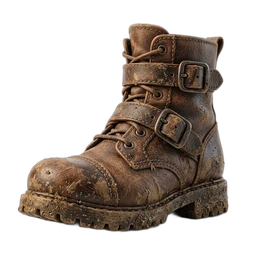
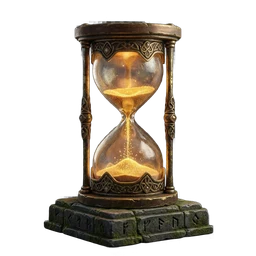
feat: icone Pixar nel Diario del Viandante (#355)
* feat: icone Pixar nel Diario e nella scheda Eroe

Diario del Viandante: 9 emoji → icone scontornate (diario, questa settimana,
trofei, reliquie, epistolario, ultime sessioni, calendario, km 8 sett., attività 3 mesi).

Scheda Eroe: 5 icone nel profilo hero (cavalcatura, lupo/famiglio,
bonus equipaggiamento, leggenda sfide, vittorie arena).

* feat: icone Pixar dentro i menu Borgo e slot seme/consumabile

- Stalla, Mercato Nero, Fucina, Bazar: icone negli header delle sub-view
- Bisca Oscura e Cartomante: icona nell'h2 interno
- Taverna delle Sfide: icona nel titolo del hub minigiochi
- openSlotPicker: icona ptIcon per slot seme e consumabile

---------

diff --git a/app.js b/app.js
@@ -3480,7 +3480,7 @@ function renderBiscaView(c) {
   wrap.appendChild(inner);
   c.appendChild(wrap);
 
-  inner.appendChild(el('h2', 'section-title', '🃏 La Bisca Oscura'));
+  inner.appendChild(el('h2', 'section-title', ptIcon('assets/ui/borgo/bisca.webp', 'La Bisca Oscura', '🃏')));
 
   // NPC biscazziere
   const npcBanner = el('div', 'npc-banner bisca-npc-banner');
@@ -6493,10 +6493,10 @@ function _borgoSubView(c, headerSrc, title, renderFn) {
   renderFn(c);
 }
 
-function renderStallaView(c)    { _borgoSubView(c, 'assets/ui/header stalla.webp',        '🐴 La Stalla',        renderStalla); }
-function renderNeroView(c)      { _borgoSubView(c, 'assets/ui/header contrabbando.webp',   '🕯 Il Mercato Nero',  renderNero); }
-function renderFucinaView(c)    { _borgoSubView(c, 'assets/ui/header fucina.webp',         '⚒ La Fucina',        renderFucina); }
-function renderErboristaView(c) { _borgoSubView(c, 'assets/header bazar.webp',           '🧪 Il Bazar',         renderErborista); }
+function renderStallaView(c)    { _borgoSubView(c, 'assets/ui/header stalla.webp',        ptIcon('assets/ui/borgo/stalla.webp',       'La Stalla',       '🐴'), renderStalla); }
+function renderNeroView(c)      { _borgoSubView(c, 'assets/ui/header contrabbando.webp',   ptIcon('assets/ui/borgo/mercato-nero.webp', 'Il Mercato Nero', '🕯'), renderNero); }
+function renderFucinaView(c)    { _borgoSubView(c, 'assets/ui/header fucina.webp',         ptIcon('assets/ui/borgo/fucina.webp',       'La Fucina',       '⚒'), renderFucina); }
+function renderErboristaView(c) { _borgoSubView(c, 'assets/header bazar.webp',             ptIcon('assets/ui/borgo/bazar.webp',        'Il Bazar',        '🧪'), renderErborista); }
 
 /* ══════════════════════════════════════════════════════════
    CARTOMANTE — Tenda del Fato
@@ -6518,7 +6518,7 @@ function renderCartomanteView(c) {
   hImg.onerror = () => hImg.remove();
   c.appendChild(hImg);
 
-  c.appendChild(el('h2', 'section-title', '🔮 La Tenda del Fato'));
+  c.appendChild(el('h2', 'section-title', ptIcon('assets/ui/borgo/cartomante.webp', 'La Tenda del Fato', '🔮')));
 
   // NPC banner
   c.appendChild(npcBanner('assets/cartomante/cartomante-npc.webp', 'La Cartomante',
@@ -7565,10 +7565,11 @@ function renderHero(c) {
   if (customTitleCos) c.appendChild(el('p', 'center small sp-custom-title', `${customTitleCos.icon} ${esc(customTitleCos.name)}`));
   c.appendChild(el('p', 'hero-title-plate center',
     `Livello ${HERO.level} — ${RPG.heroTitle(HERO.level)}` +
-    (mount ? ` · ${mount.emoji}` : '') + (HERO.companion ? ' · 🐺' : '')));
+    (mount ? ` · <img class="panel-title-icon" src="assets/ui/eroe/cavalcatura.webp" onerror="this.outerHTML='${mount.emoji}'">` : '') +
+    (HERO.companion ? ` · <img class="panel-title-icon" src="assets/ui/eroe/lupo.webp" onerror="this.outerHTML='🐺'">` : '')));
   const bonus = RPG.equipmentXpBonus(HERO);
   c.appendChild(el('p', 'center small equip-total', bonus > 0
-    ? `⚡ Bonus equipaggiamento: <b>+${bonus}% XP</b>`
+    ? ptIcon('assets/ui/eroe/bonus-equip.webp', `Bonus equipaggiamento: <b>+${bonus}% XP</b>`, '⚡')
     : 'Tocca gli slot per equipaggiare il tuo bottino'));
   const talent = RPG.talentOf(HERO);
   if (talent) c.appendChild(el('p', 'center small talent-line',
@@ -7579,7 +7580,7 @@ function renderHero(c) {
   if (pt) {
     const ptWrap = el('div', 'center');
     const ptEl = el('span', 'pvp-badge-profile');
-    ptEl.innerHTML = `${pt.icon} <b>${pt.label}</b> &nbsp;·&nbsp; ⚔ ${HERO.pvpWins} ${HERO.pvpWins === 1 ? 'vittoria' : 'vittorie'}`;
+    ptEl.innerHTML = `${ptIcon('assets/ui/eroe/leggenda-sfide.webp', '', pt.icon)} <b>${pt.label}</b> &nbsp;·&nbsp; ${ptIcon('assets/ui/eroe/vittorie.webp', '', '⚔')} ${HERO.pvpWins} ${HERO.pvpWins === 1 ? 'vittoria' : 'vittorie'}`;
     ptWrap.appendChild(ptEl);
     c.appendChild(ptWrap);
   }
@@ -7786,7 +7787,7 @@ function renderHero(c) {
 
 function renderDiaryView(c) {
   backBar(c);
-  c.appendChild(el('h2', 'section-title', '📜 Diario del Viandante'));
+  c.appendChild(el('h2', 'section-title', ptIcon('assets/ui/diario/diario.webp', 'Diario del Viandante', '📜')));
 
   // Statistiche totali
   const sp = el('div', 'panel');
@@ -7823,7 +7824,7 @@ function renderDiaryView(c) {
     const maxKm = Math.max(...Object.values(weekKm), 0.1);
     const actColors = { cyclette: '#5a9fd4', camminata: '#5abf7a', corsa: '#e07040' };
     const weekPanel = el('div', 'panel');
-    weekPanel.appendChild(el('h3', 'panel-title', '📅 Questa Settimana'));
+    weekPanel.appendChild(el('h3', 'panel-title', ptIcon('assets/ui/diario/questa-settimana.webp', 'Questa Settimana', '📅')));
     Object.entries(RPG.ACTIVITIES).forEach(([key, a]) => {
       const km = weekKm[key] || 0;
       const pct = Math.round(km / maxKm * 100);
@@ -7841,7 +7842,7 @@ function renderDiaryView(c) {
   // Trofei km
   {
     const trophyPanel = el('div', 'panel');
-    trophyPanel.appendChild(el('h3', 'panel-title', '🏆 Trofei'));
+    trophyPanel.appendChild(el('h3', 'panel-title', ptIcon('assets/ui/diario/trofei.webp', 'Trofei', '🏆')));
     const trophyGrid = el('div', 'trophy-grid');
     const earnedTrophies = HERO.trophies || [];
     RPG.TROPHIES.forEach(t => {
@@ -7891,7 +7892,7 @@ function renderDiaryView(c) {
   // Reliquie del Viandante
   {
     const relPanel = el('div', 'panel');
-    relPanel.appendChild(el('h3', 'panel-title', '🗿 Reliquie del Viandante'));
+    relPanel.appendChild(el('h3', 'panel-title', ptIcon('assets/ui/diario/reliquie.webp', 'Reliquie del Viandante', '🗿')));
     const discovered = HERO.biomesDiscovered || [];
     const found = discovered.length;
     const total = RPG.BIOME_ARTIFACTS.length;
@@ -7918,7 +7919,7 @@ function renderDiaryView(c) {
     const letters = HERO.lettersReceived || [];
     if (letters.length) {
       const epPanel = el('div', 'panel');
-      epPanel.appendChild(el('h3', 'panel-title', '📬 Epistolario'));
+      epPanel.appendChild(el('h3', 'panel-title', ptIcon('assets/ui/diario/epistolario.webp', 'Epistolario', '📬')));
       letters.forEach(id => {
         const letter = RPG.WORLD_LETTERS.find(l => l.id === id);
         if (!letter) return;
@@ -7982,7 +7983,7 @@ function renderDiaryView(c) {
       const spkPanel = el('div', 'panel');
       spkPanel.innerHTML = `
         <div class="sparkline-header">
-          <span class="sparkline-title">📈 Ultime ${last10.length} sessioni</span>
+          <span class="sparkline-title">${ptIcon('assets/ui/diario/sessioni.webp', `Ultime ${last10.length} sessioni`, '📈')}</span>
           <span class="sparkline-peak muted small">${maxV.toFixed(1)} km max</span>
         </div>
         <div class="sparkline-labels">
@@ -8008,7 +8009,7 @@ function renderDiaryView(c) {
     const daysInMonth = new Date(yr, mo + 1, 0).getDate();
     const startDow = (firstDay.getDay() + 6) % 7; // Monday-based (0=Mon)
     const calPanel = el('div', 'panel km-heatmap-wrap');
-    calPanel.appendChild(el('h3', 'panel-title', `📅 ${MONTH_IT[mo]} ${yr}`));
+    calPanel.appendChild(el('h3', 'panel-title', ptIcon('assets/ui/diario/calendario.webp', `${MONTH_IT[mo]} ${yr}`, '📅')));
     const calGrid = el('div', 'cal-grid');
     ['L','M','M','G','V','S','D'].forEach(d => calGrid.appendChild(el('div', 'cal-day-hdr', d)));
     for (let i = 0; i < startDow; i++) calGrid.appendChild(el('div', 'cal-cell cal-empty'));
@@ -8037,7 +8038,7 @@ function renderDiaryView(c) {
       weekLabels.push(w===0?'Questa':`${ref.getDate()}/${ref.getMonth()+1}`);
     }
     const chartPanel = el('div', 'panel km-heatmap-wrap');
-    chartPanel.appendChild(el('h3', 'panel-title', '📈 Km · Ultime 8 Settimane'));
+    chartPanel.appendChild(el('h3', 'panel-title', ptIcon('assets/ui/diario/km-settimane.webp', 'Km · Ultime 8 Settimane', '📈')));
     const canvas = document.createElement('canvas');
     canvas.width = 320; canvas.height = 120;
     canvas.style.cssText = 'width:100%;height:auto;display:block';
@@ -8077,7 +8078,7 @@ function renderDiaryView(c) {
     const today = new Date(); today.setHours(0,0,0,0);
     const MONTHS_SHORT = ['Gen','Feb','Mar','Apr','Mag','Giu','Lug','Ago','Set','Ott','Nov','Dic'];
     const hmWrap = el('div', 'panel km-heatmap-wrap');
-    hmWrap.appendChild(el('h3', 'panel-title', '🌙 Attività degli Ultimi 3 Mesi'));
+    hmWrap.appendChild(el('h3', 'panel-title', ptIcon('assets/ui/diario/attivita-mesi.webp', 'Attività degli Ultimi 3 Mesi', '🌙')));
 
     // Calculate month label per week column (12 columns of 7 days)
     const weekMonthLabel = new Array(12).fill('');
@@ -8406,7 +8407,8 @@ function _settingsDangerPanel() {
 function openSlotPicker(slotKey) {
   const s = RPG.SLOTS[slotKey];
   const candidates = HERO.items.filter(i => i.slot === slotKey);
-  let html = `<h3 class="panel-title">${s.icon} ${s.label}</h3>`;
+  const _slotImg = { seme: 'assets/ui/eroe/seme.webp', consumabile: 'assets/ui/eroe/consumabile-slot.webp' }[slotKey];
+  let html = `<h3 class="panel-title">${_slotImg ? ptIcon(_slotImg, s.label, s.icon) : `${s.icon} ${s.label}`}</h3>`;
   const current = HERO.equipment[slotKey];
   if (!candidates.length) {
     html += `<p class="muted center">Non hai ancora nessun oggetto per questo slot.<br>

diff --git a/minigames.js b/minigames.js
@@ -84,7 +84,7 @@ function renderMiniGamesHub(c) {
 
   const hdrRow = document.createElement('div');
   hdrRow.className = 'mg-hub-hdr';
-  hdrRow.innerHTML = `<h3 class="panel-title" style="margin:0">🎮 Taverna delle Sfide <span class="mg-hub-subtitle">— Sette giochi. Un banco. Mostra cosa sei fatto.</span></h3>`;
+  hdrRow.innerHTML = `<h3 class="panel-title" style="margin:0">${ptIcon('assets/ui/borgo/taverna.webp', 'Taverna delle Sfide', '🎮')} <span class="mg-hub-subtitle">— Sette giochi. Un banco. Mostra cosa sei fatto.</span></h3>`;
   // badge totale giocate disponibili
   const totalRem = MG_CATEGORIES.flatMap(cat => cat.games).reduce((s, g) => {
     const m = getMG(g.id);

diff --git a/sw.js b/sw.js
@@ -5,7 +5,7 @@
 
 
 
-const CACHE = "heropace-v516";
+const CACHE = "heropace-v518";
 const NOTIF_CACHE = 'heropace-notif-v1'; // stato notifiche (non cancellare mai)
 
 /* File locali per fallback offline */
